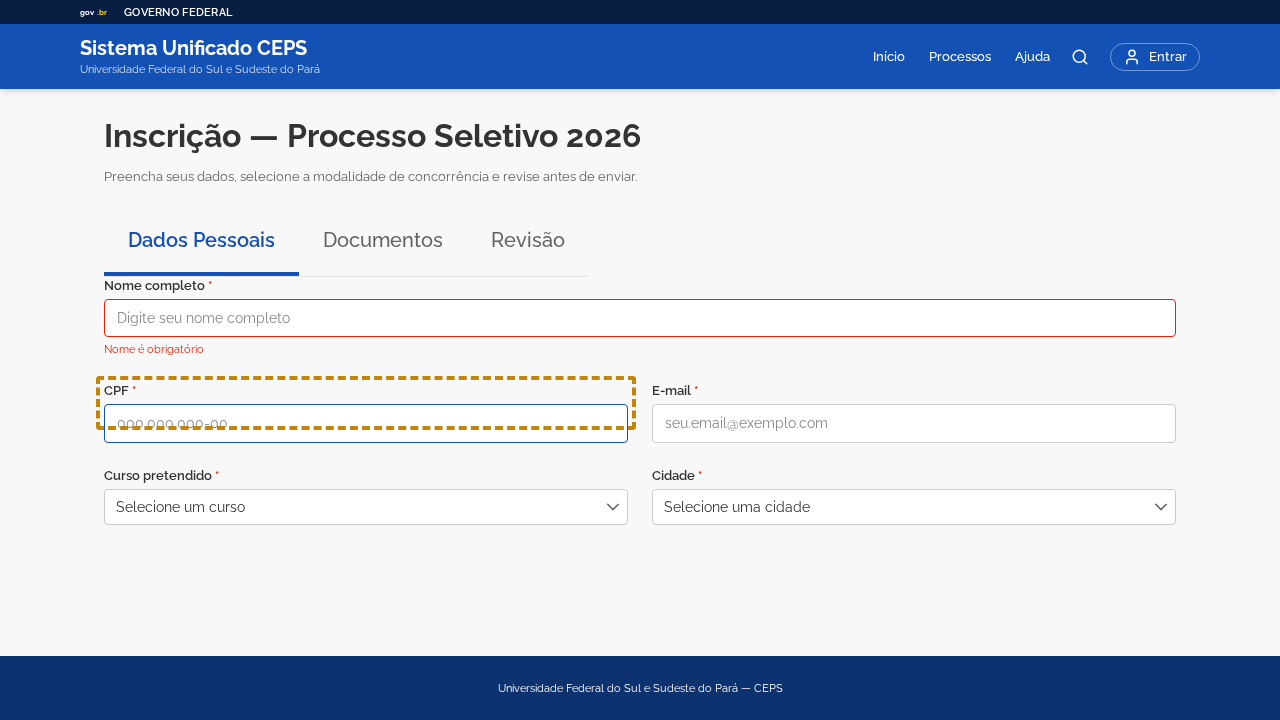
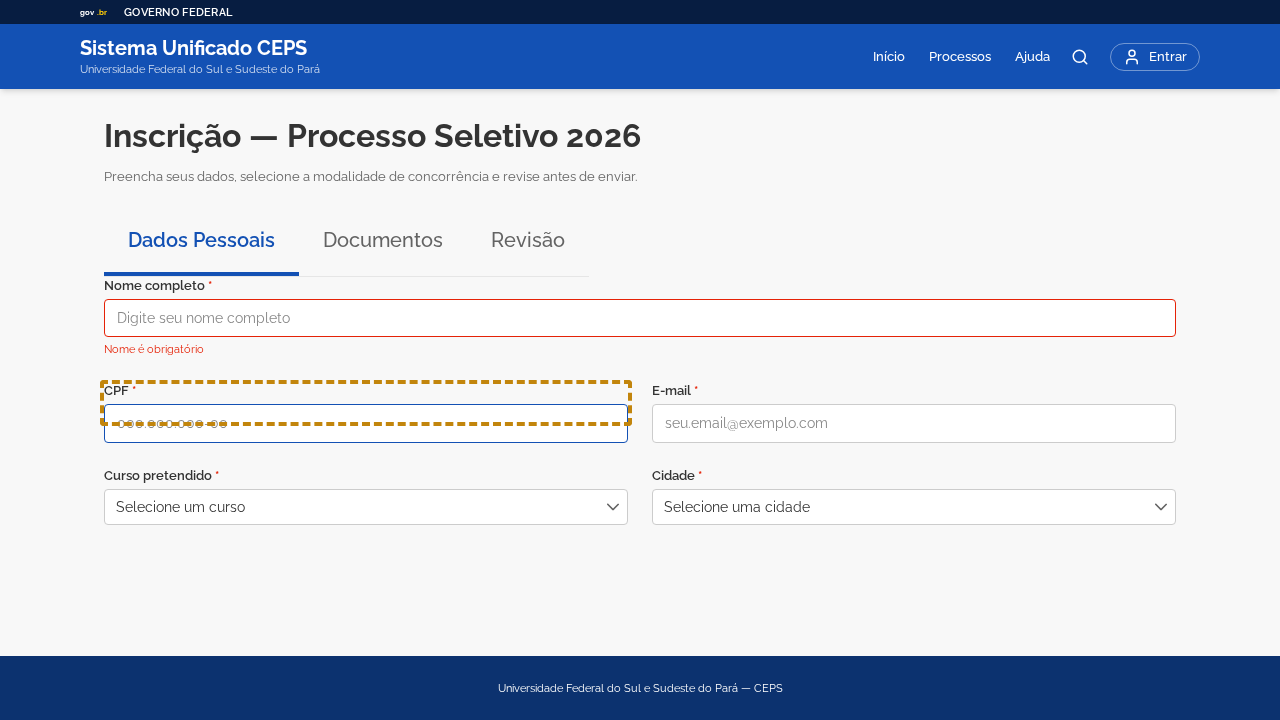
fix(poc-primeng): focus ring 100% overlay — elimina scroll e corte
Problema: overflow-x:auto no content do tablist forçava overflow-y
para auto (regra CSS), causando scrollbar vertical. Usar ::before
com inset:-8px era cortado por qualquer container com overflow.

Solução: TODOS os elementos usam overlay <span> com position:fixed
no document.body. Nunca cortado por overflow de nenhum container.
Remove .govbr-focus-ring e ::before do CSS — desnecessários.

Visual idêntico ao Gov.br DS: 4px dashed #c2850c, offset 4px.
Radio buttons: overlay circular (border-radius: 9999px).
Sem scrollbar vertical nem horizontal nas tabs.
Todos os 88 E2E + 13 unitários passando.

Changed region(s): [[0.0625, 0.5194, 0.5, 0.6111]]

diff --git a/apps/poc-primeng/src/main.ts b/apps/poc-primeng/src/main.ts
@@ -5,14 +5,14 @@ import { App } from './app/app';
 /**
  * Focus ring Gov.br DS: 4px dashed #c2850c (gold), offset 4px.
  *
- * Estratégia (contorna bug outline-color em Tailwind v4):
- * - Elementos normais (buttons, tabs, divs): classe .govbr-focus-ring
- *   que ativa ::before com border: 4px dashed #c2850c
- * - Replaced elements (input, textarea, select, .p-select): overlay <span>
- *   com border: 4px dashed #c2850c posicionado sobre o elemento
+ * Estratégia UNIFICADA: overlay <span> com position:fixed no document.body.
+ * Não usa ::before/::after — evita corte por overflow de qualquer container.
  *
- * Detecção mouse/keyboard: inputs text focados via clique de mouse NÃO
- * recebem focus ring (comportamento Safari-like). Via Tab key, recebem.
+ * - Todos os elementos focáveis recebem overlay gold ao ganhar :focus-visible
+ * - Inputs text focados via mouse NÃO recebem focus ring (Safari-like)
+ * - Radio buttons: overlay circular no box (20x20px)
+ * - Selects PrimeNG: overlay no p-select wrapper
+ * - Demais: overlay retangular no próprio elemento
  */
 let lastInputWasMouse = false;
 
@@ -40,7 +40,7 @@ function removeOverlay() {
 function createOverlay(el: HTMLElement, circular = false) {
   removeOverlay();
   const rect = el.getBoundingClientRect();
-  const offset = circular ? 6 : 8;
+  const offset = circular ? 6 : 4;
   const radius = circular ? '9999px' : '4px';
   const overlay = document.createElement('span');
   overlay.className = 'govbr-focus-overlay';
@@ -59,8 +59,6 @@ function createOverlay(el: HTMLElement, circular = false) {
   activeOverlay = overlay;
 }
 
-const REPLACED_ELEMENTS = new Set(['TEXTAREA', 'SELECT']);
-
 function isTextInput(el: HTMLElement): boolean {
   const tag = el.tagName;
   if (tag === 'TEXTAREA') return true;
@@ -75,57 +73,36 @@ function isHiddenRadio(el: HTMLElement): boolean {
   return el.tagName === 'INPUT' && (el as HTMLInputElement).type === 'radio';
 }
 
-interface FocusRingResult {
-  type: 'class' | 'overlay';
-  target: HTMLElement;
-  circular?: boolean;
-}
-
-function getFocusRingTarget(el: HTMLElement): FocusRingResult | null {
+function getOverlayTarget(el: HTMLElement): { target: HTMLElement; circular?: boolean } {
   // PrimeNG RadioButton: input[type=radio] is sr-only — overlay circular no box
   if (isHiddenRadio(el)) {
     const box = el.parentElement?.querySelector('[data-pc-section="box"]') as HTMLElement;
-    if (box) return { type: 'overlay', target: box, circular: true };
-    return null;
+    if (box) return { target: box, circular: true };
   }
   // PrimeNG Select: span[role=combobox] is inside p-select
   const pSelect = el.closest('p-select') as HTMLElement;
-  if (pSelect) return { type: 'overlay', target: pSelect };
-  // Native replaced elements (textarea, select)
-  if (REPLACED_ELEMENTS.has(el.tagName)) return { type: 'overlay', target: el };
-  // Text inputs (input[type=text], etc.)
-  if (isTextInput(el)) return { type: 'overlay', target: el };
-  return null;
+  if (pSelect) return { target: pSelect };
+  // Fallback: overlay no próprio elemento
+  return { target: el };
 }
 
 document.addEventListener('focusin', (e) => {
   const el = e.target as HTMLElement;
   if (!el || el === document.body) return;
 
+  // Mouse click em input text: sem focus ring (Safari-like)
   if (lastInputWasMouse && isTextInput(el)) {
-    el.classList.remove('govbr-focus-ring');
     removeOverlay();
     return;
   }
 
   if (!el.matches(':focus-visible')) return;
 
-  const result = getFocusRingTarget(el);
-  if (result) {
-    if (result.type === 'overlay') {
-      createOverlay(result.target, result.circular);
-    } else {
-      result.target.classList.add('govbr-focus-ring');
-    }
-  } else {
-    el.classList.add('govbr-focus-ring');
-  }
+  const { target, circular } = getOverlayTarget(el);
+  createOverlay(target, circular);
 });
 
-document.addEventListener('focusout', (e) => {
-  const el = e.target as HTMLElement;
-  if (!el) return;
-  el.classList.remove('govbr-focus-ring');
+document.addEventListener('focusout', () => {
   removeOverlay();
 });
 

diff --git a/apps/poc-primeng/src/styles.css b/apps/poc-primeng/src/styles.css
@@ -94,35 +94,19 @@ body {
 /*
  * Focus ring Gov.br DS — 4px dashed #c2850c (gold), offset 4px.
  * Requisito legal (Lei de Acessibilidade Digital + Gov.br DS).
+ * Tokens: --focus (#c2850c), --focus-style (dashed), --focus-width (4px),
+ *         --focus-offset (4px).
  *
- * IMPLEMENTAÇÃO:
- * - Elementos normais (buttons, tabs, divs): classe .govbr-focus-ring
- *   com ::before { border: 4px dashed #c2850c } posicionado via inset -8px
- * - Replaced elements (input, textarea, select): overlay <span> criado
- *   em main.ts com border dashed gold
- * - Mouse click em input text: focus ring suprimido (Safari-like)
+ * IMPLEMENTAÇÃO: overlay <span class="govbr-focus-overlay"> com position:fixed
+ * no document.body (main.ts). Nunca cortado por overflow de containers.
+ * Nenhum uso de ::before — evita o bug de overflow-x:auto forçar overflow-y.
  *
- * Contorna bug Chrome + Tailwind v4 onde outline-color ignora !important.
+ * Suprime focus ring nativo do browser para não conflitar com o overlay.
  */
 *:focus-visible {
   --tw-ring-shadow: none !important;
   outline: none !important;
   box-shadow: none !important;
-}
-
-.govbr-focus-ring {
-  position: relative !important;
-  outline: none !important;
-}
-
-.govbr-focus-ring::before {
-  content: '' !important;
-  position: absolute !important;
-  inset: -8px !important;
-  border: 4px dashed #c2850c !important;
-  border-radius: inherit !important;
-  pointer-events: none !important;
-  z-index: 9999 !important;
 }
 
 /* ============================================================

diff --git a/apps/poc-primeng/src/app/primeng-govbr-pt.ts b/apps/poc-primeng/src/app/primeng-govbr-pt.ts
@@ -18,7 +18,7 @@ export const govbrPassThrough = {
   },
   tablist: {
     root: { class: 'relative flex min-w-0' },
-    content: { class: 'flex overflow-x-auto scroll-smooth' },
+    content: { class: 'flex overflow-x-auto overflow-y-clip scroll-smooth' },
     tabList: { class: 'flex flex-nowrap border-b border-govbr-gray-10 gap-0' },
     activeBar: { class: 'hidden' },
     prevButton: { class: 'hidden' },
